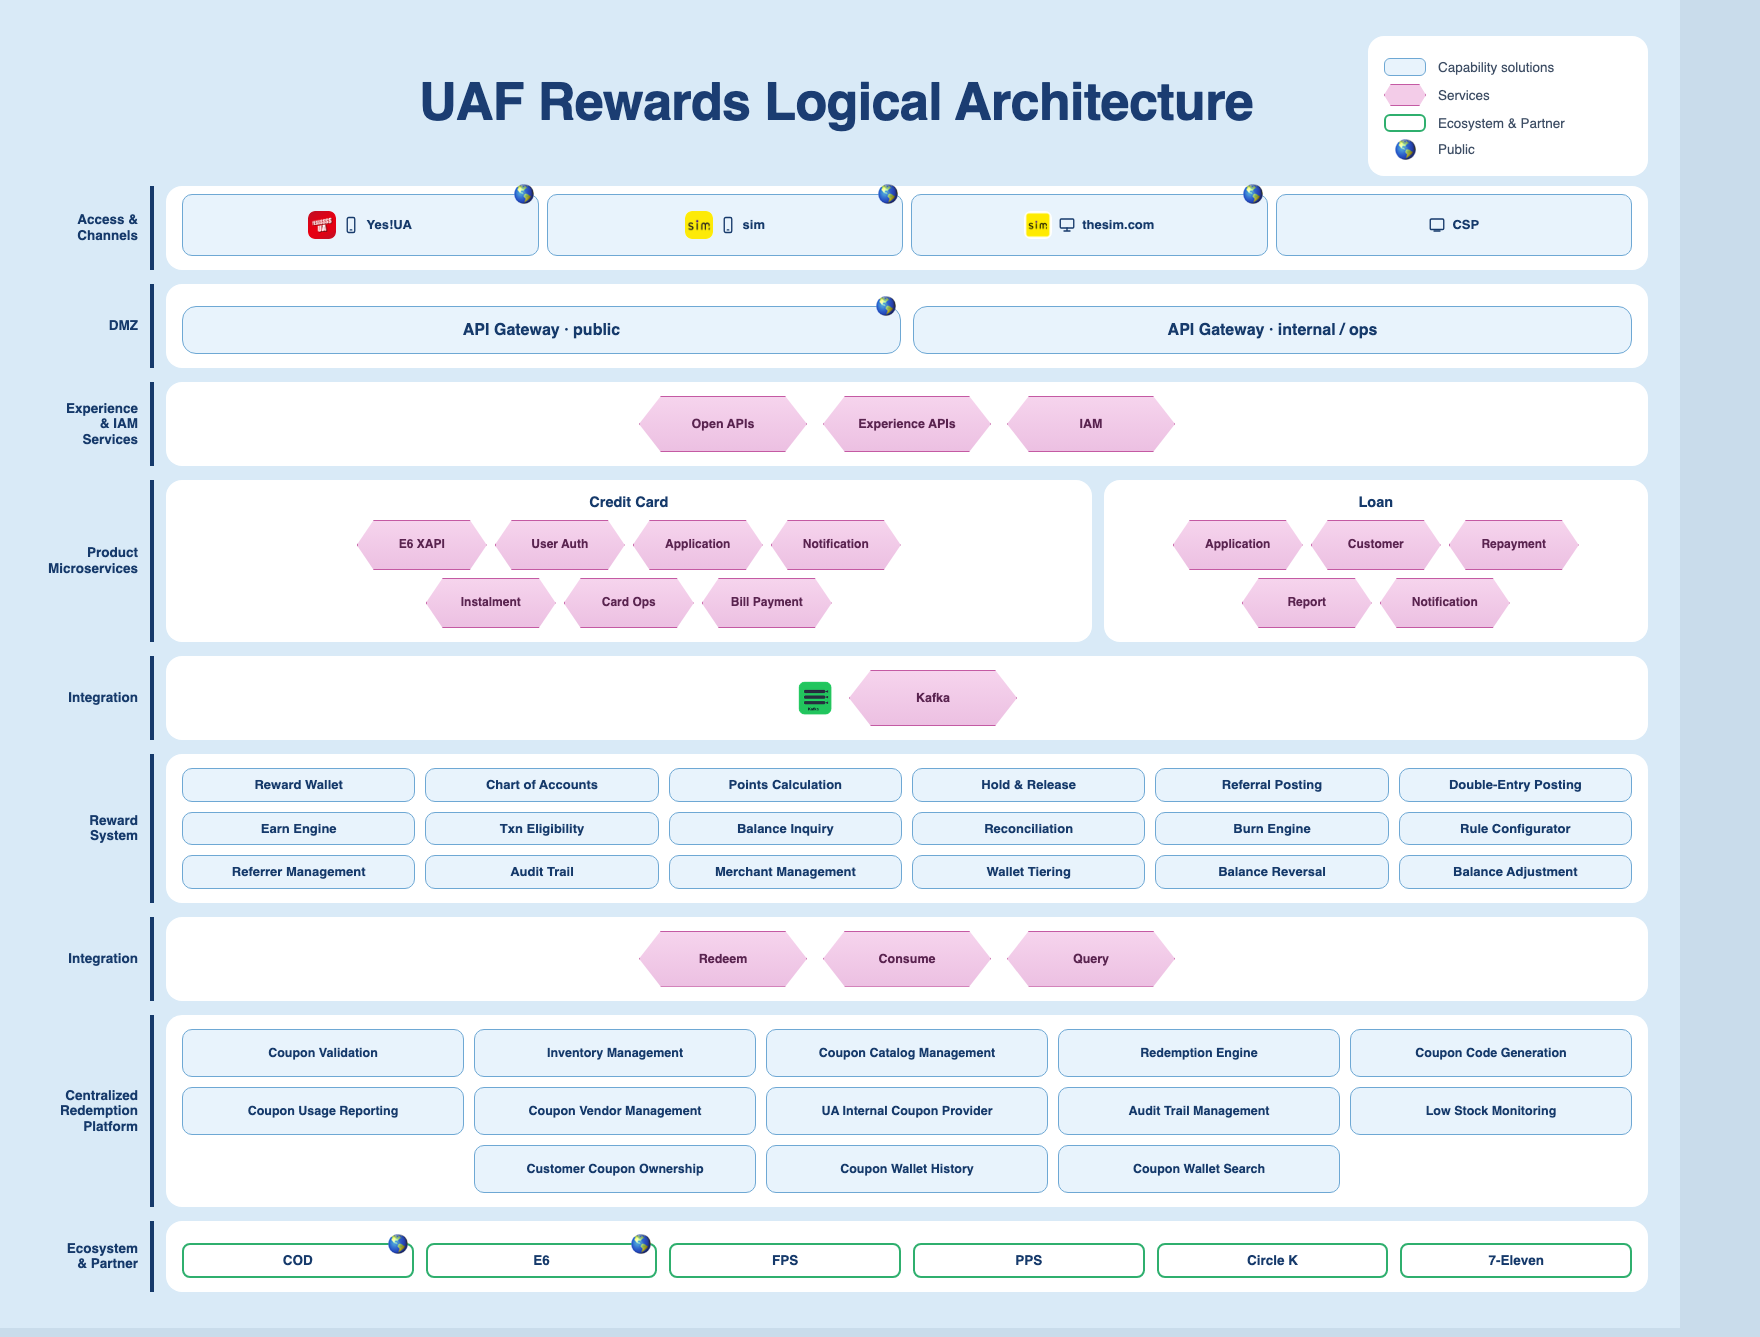
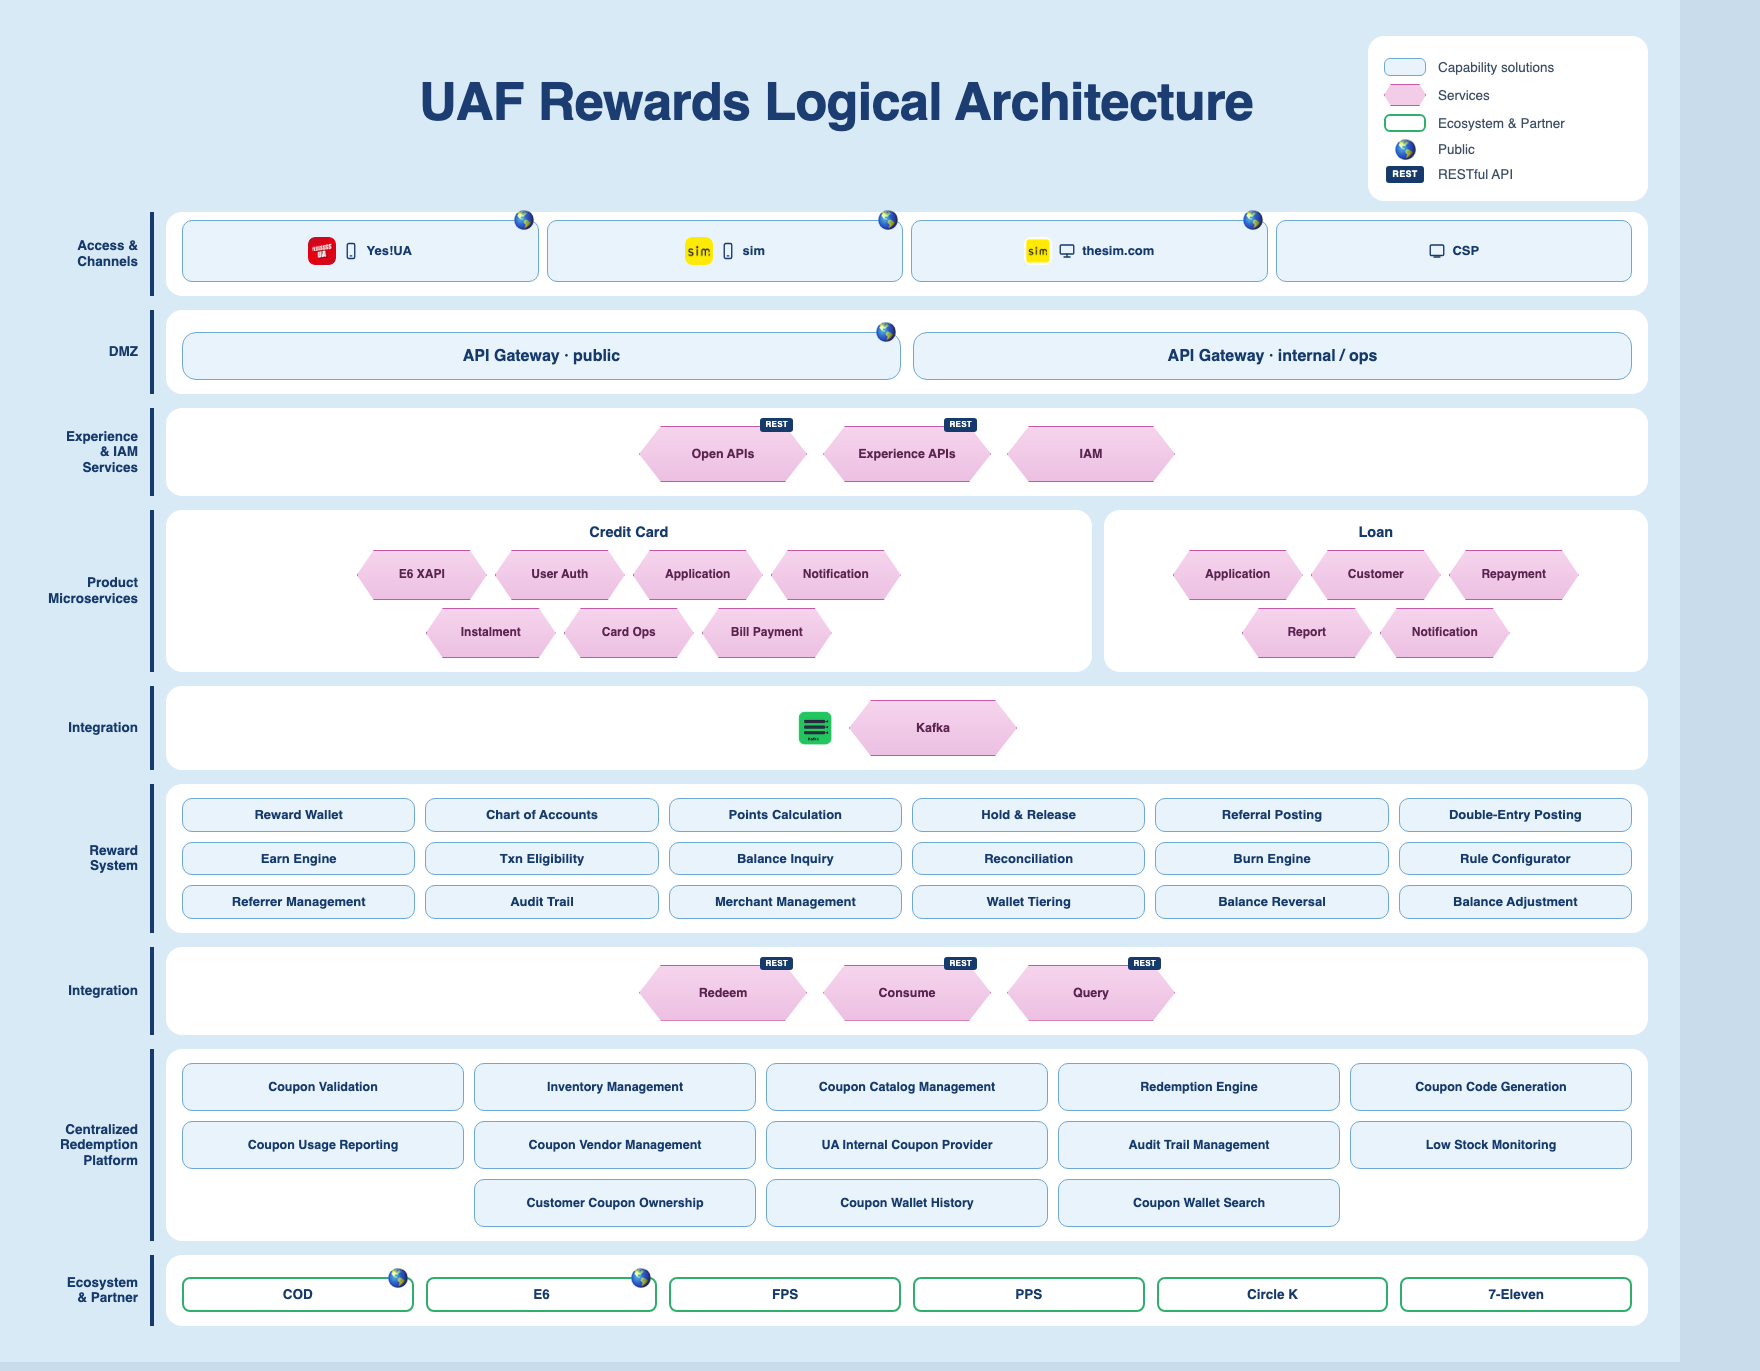
docs(decks): REST badge on RESTful API services

diff --git a/docs/decks/uaf-rewards-logical-architecture.html b/docs/decks/uaf-rewards-logical-architecture.html
@@ -8,7 +8,7 @@
   *{box-sizing:border-box;margin:0;padding:0}
   body{background:#c9dceb;font-family:"Source Sans 3","Segoe UI",sans-serif;color:#1a2a44}
   .poster{width:1680px;background:#d9eaf7;padding:36px 32px 36px 24px;position:relative}
-  .head{position:relative;min-height:132px;margin-bottom:18px}
+  .head{position:relative;min-height:158px;margin-bottom:18px}
   h1{position:absolute;left:0;right:0;top:36px;text-align:center;font-size:52px;font-weight:800;color:#1b3d72;letter-spacing:-.6px;margin:0;pointer-events:none}
   .legend{position:absolute;top:0;right:0;width:280px;z-index:1;padding:14px 16px 16px}
   .g{
@@ -41,6 +41,9 @@
   .lg-pay{height:18px;border:2.2px solid #2faf6e;border-radius:6px;background:#fff}
   .lg-globe{display:flex;align-items:center;justify-content:center;font-size:18px;line-height:1;font-family:"Apple Color Emoji","Segoe UI Emoji",sans-serif}
   .badge-pub{position:absolute;top:-10px;right:4px;z-index:2;font-size:16px;line-height:1;font-family:"Apple Color Emoji","Segoe UI Emoji",sans-serif}
+  .badge-rest{position:absolute;top:-8px;right:14px;z-index:2;background:#163a6b;color:#fff;font-size:8px;font-weight:800;padding:2px 5px;border-radius:3px;letter-spacing:.04em;line-height:1.2}
+  .lg-rest{position:static;justify-self:center;font-size:9px;padding:3px 6px}
+  .hexrow .svcw{position:relative;width:168px}
   .lg-badge{position:static;font-size:18px}
   .lg-db{width:42px;height:22px;flex-shrink:0}
   svg.ico{width:18px;height:18px;stroke:#163a6b;fill:none;stroke-width:1.8;stroke-linecap:round;stroke-linejoin:round}
@@ -96,6 +99,7 @@
       <div class="li"><div class="lg-svc"></div><span>Services</span></div>
       <div class="li"><div class="lg-pay"></div><span>Ecosystem &amp; Partner</span></div>
       <div class="li"><span class="lg-globe">🌎</span><span>Public</span></div>
+      <div class="li"><span class="badge-rest lg-rest">REST</span><span>RESTful API</span></div>
     </div>
   </div>
   <div class="g">
@@ -134,9 +138,9 @@
     </div>
 
     <div class="lab l3">Experience<br>&amp; IAM<br>Services</div>
-    <div class="card c3 hexrow">
-      <div class="svc">Open APIs</div>
-      <div class="svc">Experience APIs</div>
+    <div class="card c3 hexrow" style="padding-top:18px">
+      <div class="svcw"><div class="svc">Open APIs</div><span class="badge-rest">REST</span></div>
+      <div class="svcw"><div class="svc">Experience APIs</div><span class="badge-rest">REST</span></div>
       <div class="svc">IAM</div>
     </div>
 
@@ -199,10 +203,10 @@
     </div>
 
     <div class="lab l7">Integration</div>
-    <div class="card c7 hexrow">
-      <div class="svc">Redeem</div>
-      <div class="svc">Consume</div>
-      <div class="svc">Query</div>
+    <div class="card c7 hexrow" style="padding-top:18px">
+      <div class="svcw"><div class="svc">Redeem</div><span class="badge-rest">REST</span></div>
+      <div class="svcw"><div class="svc">Consume</div><span class="badge-rest">REST</span></div>
+      <div class="svcw"><div class="svc">Query</div><span class="badge-rest">REST</span></div>
     </div>
 
     <div class="lab l8">Centralized<br>Redemption<br>Platform</div>
